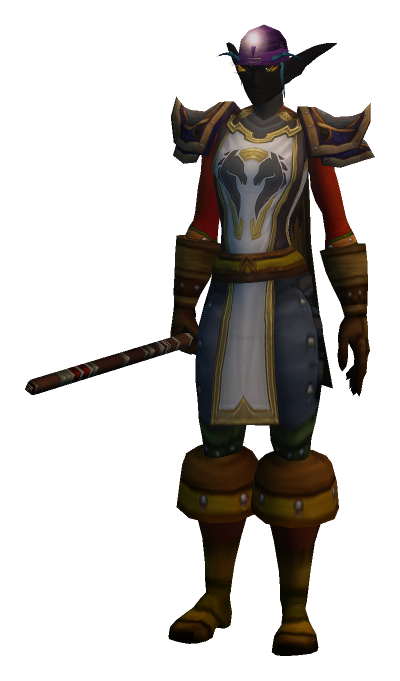
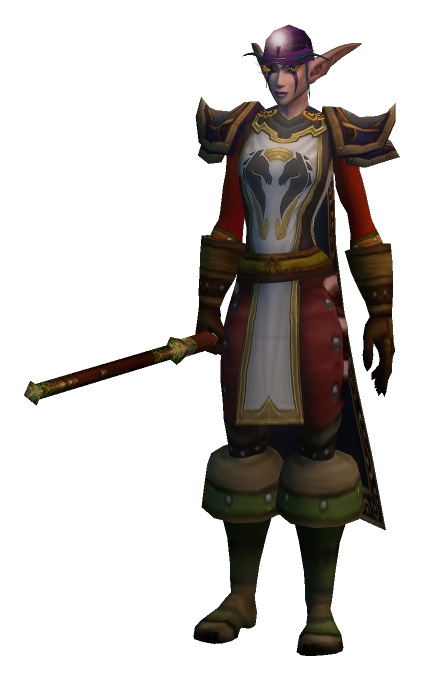
Ignore older pictures Blizzard's server serves again; repair the reel
Blizzard's picture server answers from more than one copy of his file. On
Nov 18 about half the hourly checks got his Nov 16 picture (the one with a
black face) back in place of the one drawn at 03:26 UTC, and the reel saved
it as a new look three times.

- update.py: a picture that differs from the reel's newest is ignored when
  its file date is older, or when an earlier frame already has it. Each
  frame now records its picture's file date (picAt).
- data: the 04:40 "same gear, new look" frame is removed; the 18:00 and
  20:07 frames go back to the 03:26 picture, marked as drawn before that
  gear; latest.png and the link-preview card are rebuilt.
- index.html: a frame can carry a note about its picture. The Nov 16 frame
  says Blizzard's own picture of that gear has a black face.

Changed region(s): [[0.06, 0.0308, 0.93, 0.9868]]

diff --git a/index.html b/index.html
@@ -1230,6 +1230,10 @@ footer { border-top: 1px solid var(--rule); background: var(--surface); }
           : "The Armory didn't redraw him before his gear changed again, so this picture is from before this gear.";
         cap.appendChild(pn);
       }
+      if (lk.note) {   // a line written by hand about one frame's picture
+        var fn = document.createElement("p"); fn.className = "pic-note"; fn.textContent = lk.note;
+        cap.appendChild(fn);
+      }
       if (gear.length) {
         var det = document.createElement("details"), sum = document.createElement("summary");
         sum.textContent = "All " + gear.length + " equipped items";

diff --git a/scripts/update.py b/scripts/update.py
@@ -15,7 +15,8 @@ What it does:
   * saves a new gear-reel frame whenever his equipped gear changes, or the
     character render changes (a new look). Blizzard redraws the render
     later than it updates the gear, so a gear change is saved right away with
-    its last picture, and the picture is swapped in when the render catches up
+    its last picture, and the picture is swapped in when the render catches up.
+    Its picture server sometimes hands back an older picture; that is ignored
   * saves his professions, reputations and record (kills, quests, deaths...)
   * keeps the last known professions, reputations and record stats when a
     reply comes back without them
@@ -90,13 +91,16 @@ def retry_wait(exc, attempt):
     return RETRY_DELAYS[attempt]
 
 
-def get(url, accept="*/*", headers=None):
-    """Fetch a URL, waiting and trying again through rate limits, server errors and dropped connections."""
+def get(url, accept="*/*", headers=None, meta=None):
+    """Fetch a URL, waiting and trying again through rate limits, server errors and dropped connections.
+    A dict passed as `meta` gets the reply's Last-Modified header (the date the server gives the file)."""
     req = urllib.request.Request(url, headers={**UA, "Accept": accept, **(headers or {})})
     retries = len(RETRY_DELAYS)
     for attempt in range(retries + 1):
         try:
             with urllib.request.urlopen(req, timeout=30) as resp:
+                if meta is not None:
+                    meta["Last-Modified"] = resp.headers.get("Last-Modified")
                 return resp.read()
         except urllib.error.HTTPError as exc:
             if exc.code not in RETRYABLE_STATUS or attempt == retries:
@@ -172,6 +176,26 @@ def same_picture(png_bytes):
     return differing <= new.width * new.height * 0.002
 
 
+def file_date(text):
+    """A reply's Last-Modified header as milliseconds, or None when it is missing or unreadable."""
+    try:
+        return int(email.utils.parsedate_to_datetime(text).timestamp() * 1000)
+    except (TypeError, ValueError):
+        return None
+
+
+def older_picture(looks, digest, drawn_at):
+    """True when a picture that differs from the reel's newest one is an older picture, served again.
+    Blizzard's picture server answers from more than one copy of his file, and a copy can be days behind: on
+    Nov 18, 2026 about half the hourly checks got his Nov 16 picture back in place of the one drawn that morning, and
+    the reel filed it as a new look three times. The file's own date settles it when both dates are known. Without
+    them, a picture is an old one when an earlier frame already has it."""
+    held = looks[-1].get("picAt")
+    if drawn_at and held and drawn_at != held:
+        return drawn_at < held
+    return any(look.get("hash") == digest for look in looks[:-1])
+
+
 def save_render(png_bytes, stamp, level):
     im = cropped(png_bytes)
     RENDERS.mkdir(exist_ok=True)
@@ -205,18 +229,34 @@ def update_looks(looks, api, ts, level):
     gear_known = bool(gear) and len(gear) >= len(last_gear) // 2
     gear_changed = gear_known and last is not None and gear_key(gear) != gear_key(last_gear)
 
-    png = digest = None
+    png = digest = drawn_at = None
     if api.get("mainRender"):
         try:
-            png = get(api["mainRender"], "image/png")
+            meta = {}
+            png = get(api["mainRender"], "image/png", meta=meta)
             digest = hashlib.sha256(png).hexdigest()
+            drawn_at = file_date(meta.get("Last-Modified"))  # when Blizzard made this picture file
         except (urllib.error.URLError, TimeoutError, OSError) as exc:
             print(f"Could not fetch the character render ({exc}). Level data still saved.")
+    went_back = ""
+    if last is not None and digest is not None and digest != last.get("hash") and older_picture(looks, digest, drawn_at):
+        # Not a redraw: carry on as if no picture had come, so the reel keeps the newer one it has.
+        dated_text = (dt.datetime.fromtimestamp(drawn_at / 1000, dt.timezone.utc).strftime("file dated %b %d %H:%M UTC")
+                      if drawn_at else "no file date")
+        went_back = f" Blizzard's picture server sent an older picture of him again ({dated_text}): ignored."
+        png = digest = drawn_at = None
     new_render = digest is not None and (last is None or digest != last.get("hash"))
+
+    def dated(frame):
+        if drawn_at:
+            frame["picAt"] = drawn_at
+        else:
+            frame.pop("picAt", None)
 
     def picture(frame, t, lvl):
         path, size = save_render(png, frame_stamp(t), lvl)
         frame.update(img=path, w=size[0], h=size[1], hash=digest)
+        dated(frame)
         frame.pop("stalePic", None)
 
     if last is None:
@@ -236,12 +276,14 @@ def update_looks(looks, api, ts, level):
         # The Armory hasn't redrawn him yet, so the frame borrows its last picture. That picture is only behind when
         # something it shows changed, or it was already behind: a new necklace or ring looks the same.
         frame.update(img=last["img"], w=last.get("w"), h=last.get("h"), hash=last.get("hash"))
+        if last.get("picAt"):
+            frame["picAt"] = last["picAt"]
         if last.get("stalePic") or drawn_key(gear) != drawn_key(last_gear):
             frame["stalePic"] = True
             looks.append(frame)
-            return "New gear: frame saved with the Armory's last render until it redraws him."
+            return "New gear: frame saved with the Armory's last render until it redraws him." + went_back
         looks.append(frame)
-        return "New gear that his picture doesn't show: frame saved with the current render."
+        return "New gear that his picture doesn't show: frame saved with the current render." + went_back
 
     if new_render:
         if last.get("stalePic"):
@@ -250,6 +292,7 @@ def update_looks(looks, api, ts, level):
             return "The Armory redrew him: new render added to the latest frame."
         if same_picture(png):
             last["hash"] = digest  # a new file, the same look: nothing to add to the reel
+            dated(last)
             return "The Armory redrew the same picture. Look unchanged."
         if last["t"] == ts:
             # A second, different picture for the same logout. Two frames would share one file name, and the reel
@@ -262,8 +305,8 @@ def update_looks(looks, api, ts, level):
         return "New look: frame saved."
 
     if not gear_known:
-        return "Armory sent no gear list. Look unchanged."
-    return "Gear and look unchanged."
+        return "Armory sent no gear list. Look unchanged." + went_back
+    return "Gear and look unchanged." + went_back
 
 
 class SourceError(Exception):

diff --git a/README.md b/README.md
@@ -12,7 +12,7 @@ Delete each one once it's done.
 - **Updates:** `.github/workflows/update.yml` calls `scripts/update.py`, which reads Blizzard's official World of Warcraft API and retries through rate limits. WoW: Forever is the `forever` game version there, and its characters have a first and last name and no realm, so he is `/profile/wow/character/bonita-bluehair` in the namespace `profile-forever-us` (summary, `/equipment`, `/character-media`, `/specializations`, `/pvp-summary`, `/professions`, `/reputations`, `/achievements/statistics`), and his guild's roster is `/data/wow/guild/<guildSlug>/roster`. Only the summary (level and last logout) is essential; any other part that fails is skipped and its last known values are kept. The API client's ID and secret are the repository Actions secrets `BLIZZARD_CLIENT_ID` and `BLIZZARD_CLIENT_SECRET` (created by the owner at https://develop.battle.net/access/clients; nobody else should handle the secret, and the script never prints them or the token). `scripts/blizzard_probe.py` (the "Blizzard API probe" workflow, run by hand) is how the addresses were found: it prints the status and shape of every reply and saves the full replies as a three-day download.
   - **Why Blizzard's API.** Until Nov 14, 2026 the updater read the same data through classicarmory.gg's internal feed. From the Nov 14 20:07 UTC check that feed answered `403 Forbidden` to outside programs while the site's own pages kept working. That is its owner's call, so the tracker did not work around it (no browser disguise, cookies or copied tokens): checks were paused (`PAUSED` in `update.py`, and a `"paused"` entry in `data/history.json` that makes both pages say so) until the first check through Blizzard's API on Nov 15, which removes the entry. The data is the same underneath: on Nov 15 Blizzard's replies matched the saved gear, professions, reputations, item level, logout time and all 61 record stats.
   - **Level between logouts.** His character sheet (level, gear, stats) only refreshes when he logs out, so the updater also reads his level from the guild roster, which follows the game while he is online. When the roster is ahead of every saved snapshot, it adds a level snapshot stamped with the time of that check and marked `"source": "roster"` (the first was level 34 on Nov 11, 2026, when the sheet had said 33 for hours); his next logout adds its own snapshot as usual, and gear, stats and the record still wait for that logout. The summary also gives his XP into the current level, saved as `character.xp`; nothing on the pages uses it yet.
-  - **Gear reel.** It saves a new frame whenever his equipped gear or his picture changes, commits, and redeploys GitHub Pages (only when something was saved). Blizzard redraws his picture later than it updates his gear, sometimes days later (on Nov 12 its newest was from Nov 10 02:19 UTC, two gear changes behind), so a gear change is saved right away with the last picture (`"stalePic": true`, with a note on the page) and the new picture is swapped into that frame once it arrives. A frame is only marked that way when something the picture shows changed, so not for a necklace, ring, trinket or relic. Blizzard also re-renders him now and then with a few dozen pixels different (mostly eye glow), which changes the file's hash but not the look: when the gear list is unchanged and under 0.2% of pixels differ from `renders/latest.png`, no frame is added, and a visibly different picture for the same logout replaces that frame's picture instead of adding a twin (on Nov 10, 2026 two near-identical redraws had left two frames for one logout; repaired Nov 12).
+  - **Gear reel.** It saves a new frame whenever his equipped gear or his picture changes, commits, and redeploys GitHub Pages (only when something was saved). Blizzard redraws his picture later than it updates his gear, sometimes days later (on Nov 12 its newest was from Nov 10 02:19 UTC, two gear changes behind), so a gear change is saved right away with the last picture (`"stalePic": true`, with a note on the page) and the new picture is swapped into that frame once it arrives. A frame is only marked that way when something the picture shows changed, so not for a necklace, ring, trinket or relic. Blizzard also re-renders him now and then with a few dozen pixels different (mostly eye glow), which changes the file's hash but not the look: when the gear list is unchanged and under 0.2% of pixels differ from `renders/latest.png`, no frame is added, and a visibly different picture for the same logout replaces that frame's picture instead of adding a twin (on Nov 10, 2026 two near-identical redraws had left two frames for one logout; repaired Nov 12). Blizzard's picture server also answers from more than one copy of his file, and a copy can be days behind: on Nov 18, 2026 about half the hourly checks got his Nov 16 picture back in place of the one drawn that morning, and the reel filed it as a new look three times (repaired Nov 18). So a picture that differs from the reel's newest is ignored when it is an older one: its file date (the `Last-Modified` header, saved on each frame as `picAt`) is earlier than the newest picture's, or, without dates, an earlier frame already has it. The log line says so. A frame can also carry a hand-written `note` about its picture, shown under it: the Nov 16 frame has one because Blizzard's own picture of that gear has a black face.
   - **Record, professions and reputation.** Saved to `data/stats.json` in the layout and order they have always had (the updater reorders Blizzard's replies to match, so a check that changes nothing changes nothing in the files). When a reply leaves something out, the last known values are kept instead of being wiped. Two leftovers from the classicarmory.gg period: the Nov 8 16:30 and Nov 9 07:09 UTC stats snapshots carry the Nov 8 04:29 profession and reputation values (that feed had moved them and the updater followed late), and six record stats that feed stopped sending were held at their last values from Nov 9 to Nov 15 ("Professions at maximum skill", "Secondary skills at maximum skill", "Weapon skills at maximum skill", "First Aid skill", "Most Alliance factions at Exalted" and "Bazzalan kills (Ragefire Chasm)"). Blizzard's API sends all six, so they are live again; its "First Aid skill" statistic reads 330 against a real skill of 238, which is Blizzard's number, not a tracker error.
 - **The hourly clock:** GitHub's own schedule starts the workflow hours late or skips it (Nov 8–9: every 4 to 7 hours, then nothing for 9), so the Cloudflare Worker in `votes-worker/` starts it at :07 every hour with a cron trigger. GitHub's schedule stays on as a backup and does nothing when the last check was under 40 minutes ago. It has been on since Nov 9, 2026 (first run 23:07 UTC). The token expires on the date chosen when it was made; when it does, the hourly runs stop and the Worker's cron runs show as failed, so redo steps 1 and 2. Setup:
   1. On GitHub: Settings → Developer settings → Fine-grained tokens → Generate new token. Repository access: only `TwinkieSlamer/bonitabluehair`. Permissions: Actions → Read and write. Set the expiry past Christmas.
